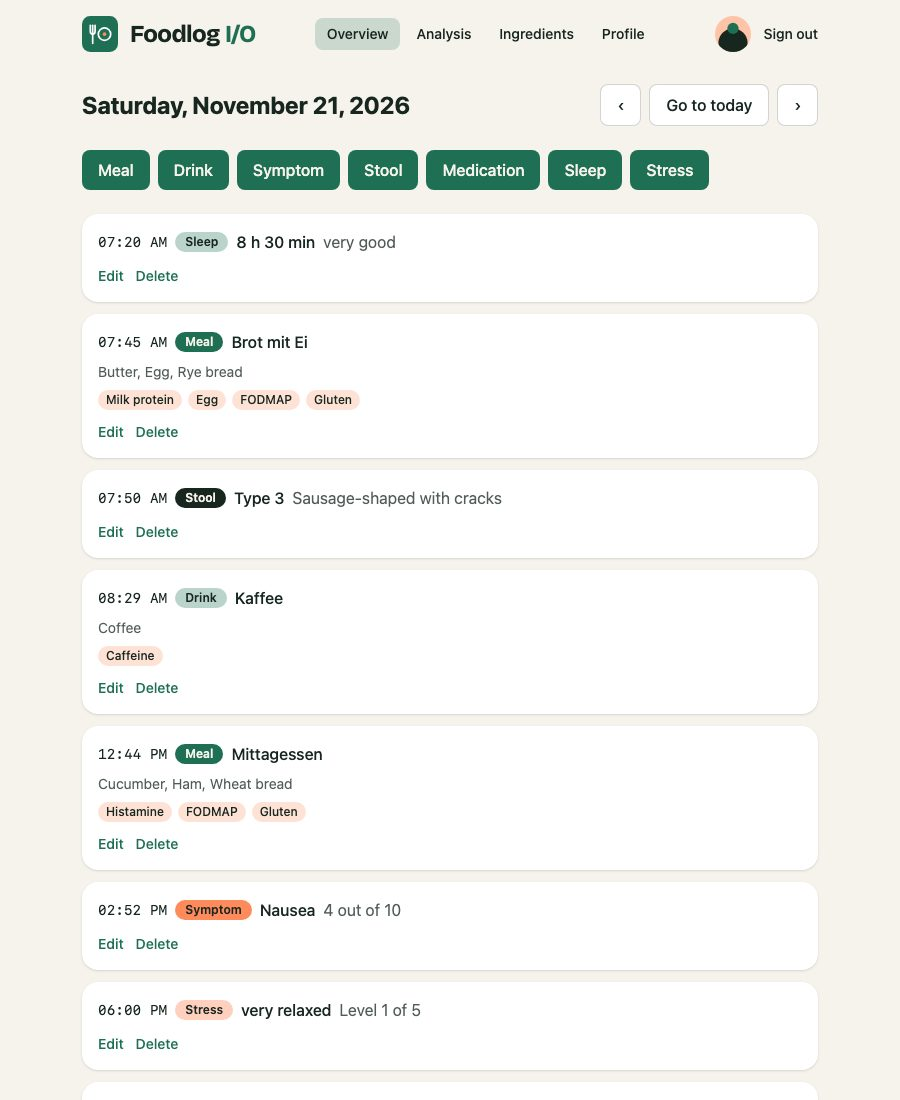
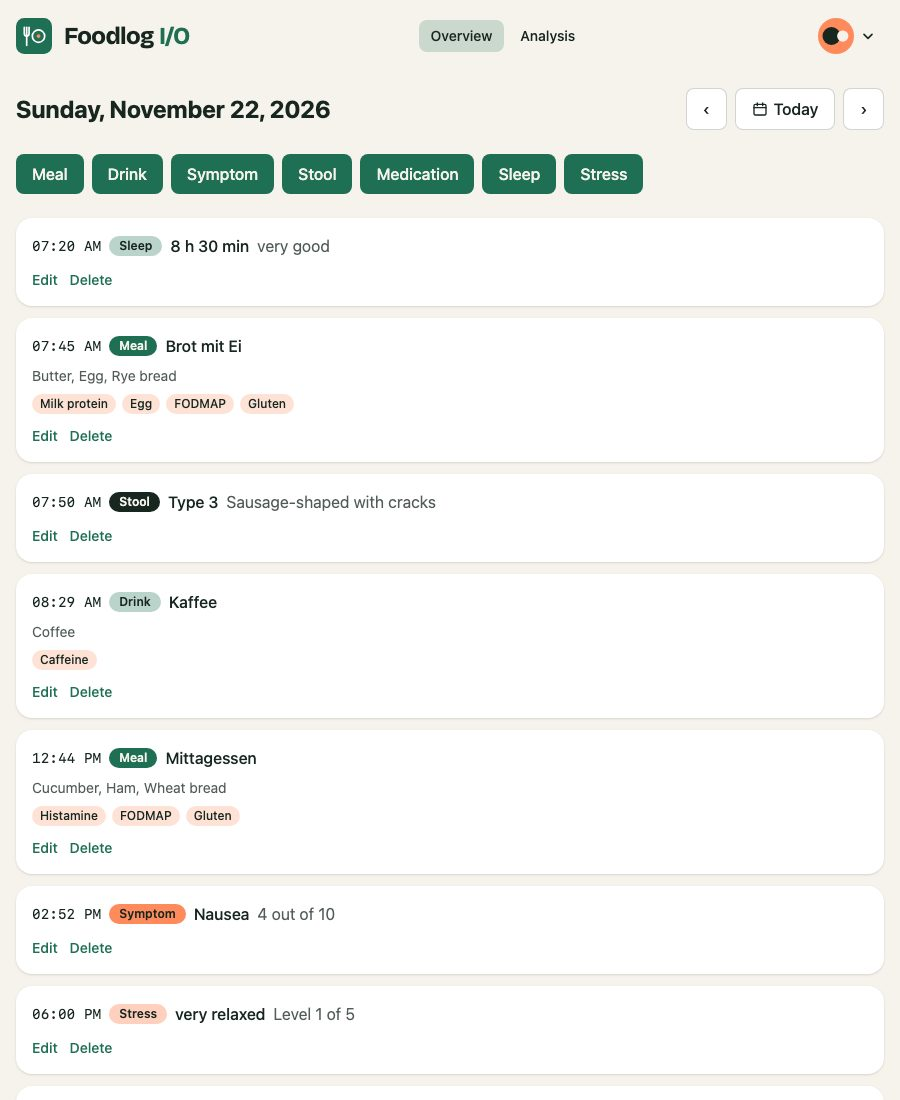
feat(frontend): move profile, admin, ingredients and sign out into an account menu and widen the app

diff --git a/frontend/src/components/Layout.tsx b/frontend/src/components/Layout.tsx
@@ -1,4 +1,4 @@
-import { useEffect, useRef } from 'react';
+import { useEffect, useRef, useState } from 'react';
 import { Link, NavLink, Outlet, useLocation } from 'react-router';
 import { useTranslation } from 'react-i18next';
 import type { Locale } from '@foodlog/shared';
@@ -59,10 +59,91 @@ export function PublicLayout({
   );
 }
 
-export function AppLayout() {
+function AccountMenu() {
   const { t } = useTranslation();
   const { data: me } = useMe();
   const logout = useLogout();
+  const { pathname } = useLocation();
+  const [openFor, setOpenFor] = useState<string | null>(null);
+  const open = openFor === pathname;
+  const setOpen = (value: boolean) => setOpenFor(value ? pathname : null);
+  const root = useRef<HTMLDivElement>(null);
+  const trigger = useRef<HTMLButtonElement>(null);
+
+  useEffect(() => {
+    if (!open) return;
+    const close = (event: MouseEvent | KeyboardEvent) => {
+      if (event instanceof KeyboardEvent) {
+        if (event.key !== 'Escape') return;
+        trigger.current?.focus();
+      } else if (root.current?.contains(event.target as Node)) {
+        return;
+      }
+      setOpenFor(null);
+    };
+    document.addEventListener('mousedown', close);
+    document.addEventListener('keydown', close);
+    return () => {
+      document.removeEventListener('mousedown', close);
+      document.removeEventListener('keydown', close);
+    };
+  }, [open]);
+
+  if (!me) return null;
+  const item = 'block w-full rounded-lg px-3 py-2 text-left text-sm font-medium hover:bg-fg/5';
+  return (
+    <div ref={root} className="relative shrink-0">
+      <button
+        ref={trigger}
+        type="button"
+        aria-label={t('nav.account')}
+        aria-expanded={open}
+        onClick={() => setOpen(!open)}
+        className="flex items-center gap-1.5 rounded-full py-0.5 pl-0.5 pr-2 hover:bg-fg/5"
+      >
+        <Avatar user={me.user} />
+        <svg
+          aria-hidden="true"
+          viewBox="0 0 20 20"
+          fill="none"
+          stroke="currentColor"
+          strokeWidth="2"
+          strokeLinecap="round"
+          strokeLinejoin="round"
+          className={`h-4 w-4 transition-transform ${open ? 'rotate-180' : ''}`}
+        >
+          <path d="m5 8 5 5 5-5" />
+        </svg>
+      </button>
+      {open && (
+        <div className="absolute right-0 top-full z-20 mt-2 w-64 rounded-xl border border-fg/10 bg-raised p-2 shadow-lg">
+          <p className="truncate px-3 py-1 text-sm font-semibold">{me.user.name}</p>
+          <p className="break-all px-3 pb-2 text-xs text-fg/75">{me.user.email}</p>
+          <div className="border-t border-fg/10 pt-2">
+            <Link to="/ingredients" className={item}>
+              {t('nav.ingredients')}
+            </Link>
+            <Link to="/profile" className={item}>
+              {t('nav.profile')}
+            </Link>
+            {me.user.role === 'admin' && (
+              <Link to="/admin" className={item}>
+                {t('nav.admin')}
+              </Link>
+            )}
+            <button type="button" onClick={() => logout.mutate()} className={item}>
+              {t('common.logout')}
+            </button>
+          </div>
+        </div>
+      )}
+    </div>
+  );
+}
+
+export function AppLayout() {
+  const { t } = useTranslation();
+  const { data: me } = useMe();
   const nav = useRef<HTMLElement>(null);
   const { pathname } = useLocation();
   useEffect(() => {
@@ -73,7 +154,7 @@ export function AppLayout() {
   const link = ({ isActive }: { isActive: boolean }) =>
     `shrink-0 whitespace-nowrap rounded-lg px-3 py-1.5 text-sm font-medium ${isActive ? 'bg-accent/20 text-fg' : 'hover:bg-fg/5'}`;
   return (
-    <div className="mx-auto flex min-h-screen w-full max-w-3xl flex-col px-4 pb-8">
+    <div className="mx-auto flex min-h-screen w-full max-w-5xl flex-col px-4 pb-8">
       <header className="flex flex-wrap items-center justify-between gap-3 py-4 print:hidden">
         <Logo />
         <nav
@@ -91,28 +172,8 @@ export function AppLayout() {
               {t('nav.ai')}
             </NavLink>
           )}
-          <NavLink to="/ingredients" className={link}>
-            {t('nav.ingredients')}
-          </NavLink>
-          <NavLink to="/profile" className={link}>
-            {t('nav.profile')}
-          </NavLink>
-          {me?.user.role === 'admin' && (
-            <NavLink to="/admin" className={link}>
-              {t('nav.admin')}
-            </NavLink>
-          )}
         </nav>
-        <div className="flex items-center gap-3">
-          {me && <Avatar user={me.user} />}
-          <button
-            type="button"
-            onClick={() => logout.mutate()}
-            className="text-sm font-medium hover:text-accent"
-          >
-            {t('common.logout')}
-          </button>
-        </div>
+        <AccountMenu />
       </header>
       <main className="flex-1 space-y-6 py-4">
         <Outlet />

diff --git a/e2e/tests/mfa.spec.ts b/e2e/tests/mfa.spec.ts
@@ -1,6 +1,6 @@
 import AxeBuilder from '@axe-core/playwright';
 import { expect, test, type Page } from '@playwright/test';
-import { loginViaApi, PASSWORD, promoteToAdmin, registerVerified } from './helpers.ts';
+import { loginViaApi, PASSWORD, promoteToAdmin, registerVerified, signOut } from './helpers.ts';
 
 test.beforeEach(async ({ page }) => {
   await page.addInitScript(() => localStorage.setItem('foodlog.lang', 'en'));
@@ -51,7 +51,7 @@ test('sets up an authenticator app and needs its code at sign-in', async ({ page
   await card.getByRole('button', { name: 'I saved them' }).click();
   await expect(card.getByText('The authenticator app is active.')).toBeVisible();
 
-  await page.getByRole('button', { name: 'Sign out' }).click();
+  await signOut(page);
   await expect(page.getByRole('heading', { name: 'Sign in' })).toBeVisible();
   await page.getByLabel('Email').fill(email);
   await page.getByLabel('Password').fill(PASSWORD);
@@ -66,7 +66,7 @@ test('sets up an authenticator app and needs its code at sign-in', async ({ page
   await page.getByRole('button', { name: 'Confirm' }).click();
   await expect(page.getByRole('button', { name: 'Meal', exact: true })).toBeVisible();
 
-  await page.getByRole('button', { name: 'Sign out' }).click();
+  await signOut(page);
   await expect(page.getByRole('heading', { name: 'Sign in' })).toBeVisible();
   await page.getByLabel('Email').fill(email);
   await page.getByLabel('Password').fill(PASSWORD);
@@ -94,12 +94,12 @@ test('registers a passkey and signs in with it, with and without the password', 
   await card.getByRole('button', { name: 'I saved them' }).click();
   await expect(card.getByText('Test laptop')).toBeVisible();
 
-  await page.getByRole('button', { name: 'Sign out' }).click();
+  await signOut(page);
   await expect(page.getByRole('heading', { name: 'Sign in' })).toBeVisible();
   await page.getByRole('button', { name: 'Use a passkey instead' }).click();
   await expect(page.getByRole('button', { name: 'Meal', exact: true })).toBeVisible();
 
-  await page.getByRole('button', { name: 'Sign out' }).click();
+  await signOut(page);
   await expect(page.getByRole('heading', { name: 'Sign in' })).toBeVisible();
   await page.getByLabel('Email').fill(email);
   await page.getByLabel('Password').fill(PASSWORD);
@@ -116,6 +116,7 @@ test('sends an administrator without a second factor to the profile with an expl
   await promoteToAdmin(page, email, false);
   await loginViaApi(page, email);
   await page.goto('/');
+  await page.getByRole('button', { name: 'Account menu' }).click();
   await page.getByRole('link', { name: 'Admin' }).click();
 
   await expect(page).toHaveURL(/\/profile$/);

diff --git a/frontend/src/components/Layout.test.tsx b/frontend/src/components/Layout.test.tsx
@@ -1,0 +1,52 @@
+import { screen, waitFor } from '@testing-library/react';
+import userEvent from '@testing-library/user-event';
+import { http, HttpResponse } from 'msw';
+import { describe, expect, it } from 'vitest';
+import { server } from '../test/server.ts';
+import { mockLoggedIn, renderApp } from '../test/render.tsx';
+
+describe('account menu', () => {
+  function setup() {
+    mockLoggedIn();
+    server.use(http.get('/api/entries', () => HttpResponse.json([])));
+    renderApp('/');
+  }
+
+  it('keeps profile and sign out behind the avatar', async () => {
+    setup();
+    const trigger = await screen.findByRole('button', { name: 'Account menu' });
+    expect(trigger).toHaveAttribute('aria-expanded', 'false');
+    expect(screen.queryByRole('link', { name: 'Profile' })).not.toBeInTheDocument();
+    expect(screen.queryByRole('button', { name: 'Sign out' })).not.toBeInTheDocument();
+
+    await userEvent.click(trigger);
+    expect(trigger).toHaveAttribute('aria-expanded', 'true');
+    expect(screen.getByText('anna@example.com')).toBeInTheDocument();
+    expect(screen.getByRole('link', { name: 'Profile' })).toHaveAttribute('href', '/profile');
+    expect(screen.getByRole('button', { name: 'Sign out' })).toBeInTheDocument();
+  });
+
+  it('closes with Escape and returns focus to the avatar', async () => {
+    setup();
+    const trigger = await screen.findByRole('button', { name: 'Account menu' });
+    await userEvent.click(trigger);
+    await userEvent.keyboard('{Escape}');
+    expect(screen.queryByRole('link', { name: 'Profile' })).not.toBeInTheDocument();
+    expect(trigger).toHaveFocus();
+  });
+
+  it('closes on a click outside and after choosing an entry', async () => {
+    setup();
+    const trigger = await screen.findByRole('button', { name: 'Account menu' });
+    await userEvent.click(trigger);
+    await userEvent.click(document.body);
+    expect(screen.queryByRole('link', { name: 'Profile' })).not.toBeInTheDocument();
+
+    await userEvent.click(trigger);
+    await userEvent.click(screen.getByRole('link', { name: 'Profile' }));
+    expect(await screen.findByRole('heading', { name: 'Profile' })).toBeInTheDocument();
+    await waitFor(() =>
+      expect(screen.queryByRole('button', { name: 'Sign out' })).not.toBeInTheDocument(),
+    );
+  });
+});

diff --git a/frontend/src/pages/admin/Admin.test.tsx b/frontend/src/pages/admin/Admin.test.tsx
@@ -77,6 +77,7 @@ describe('admin access', () => {
     mockAdmin();
     server.use(http.get('/api/entries', () => HttpResponse.json([])));
     renderApp('/');
+    await userEvent.click(await screen.findByRole('button', { name: 'Account menu' }));
     expect(await screen.findByRole('link', { name: 'Admin' })).toBeInTheDocument();
   });
 
@@ -85,6 +86,8 @@ describe('admin access', () => {
     server.use(http.get('/api/entries', () => HttpResponse.json([])));
     renderApp('/admin/users');
     expect(await screen.findByRole('button', { name: 'Meal' })).toBeInTheDocument();
+    await userEvent.click(screen.getByRole('button', { name: 'Account menu' }));
+    expect(screen.getByRole('link', { name: 'Profile' })).toBeInTheDocument();
     expect(screen.queryByRole('link', { name: 'Admin' })).not.toBeInTheDocument();
   });
 });

diff --git a/frontend/src/components/ui.tsx b/frontend/src/components/ui.tsx
@@ -69,11 +69,15 @@ export function Button({
   variant = 'primary',
   className = '',
   ...props
-}: ButtonHTMLAttributes<HTMLButtonElement> & { variant?: 'primary' | 'secondary' }) {
-  const styles =
-    variant === 'primary'
-      ? 'bg-brand text-cream hover:bg-brand-hover'
-      : 'border border-fg/20 bg-raised hover:border-accent';
+}: ButtonHTMLAttributes<HTMLButtonElement> & {
+  variant?: 'primary' | 'secondary' | 'danger' | 'dangerOutline';
+}) {
+  const styles = {
+    primary: 'bg-brand text-cream hover:bg-brand-hover',
+    secondary: 'border border-fg/20 bg-raised hover:border-accent',
+    danger: 'bg-danger text-surface hover:brightness-90',
+    dangerOutline: 'border border-danger bg-raised text-danger hover:bg-danger/10',
+  }[variant];
   return (
     <button
       {...props}

diff --git a/e2e/tests/admin.spec.ts b/e2e/tests/admin.spec.ts
@@ -44,10 +44,13 @@ async function openUser(admin: Page, email: string) {
 test('only admins see the admin area', async ({ browser }) => {
   const { page: admin } = await adminPage(browser);
   await admin.goto('/');
+  await admin.getByRole('button', { name: 'Account menu' }).click();
   await expect(admin.getByRole('link', { name: 'Admin' })).toBeVisible();
 
   const { page: regular } = await userPage(browser);
   await regular.goto('/');
+  await regular.getByRole('button', { name: 'Account menu' }).click();
+  await expect(regular.getByRole('link', { name: 'Profile' })).toBeVisible();
   await expect(regular.getByRole('link', { name: 'Admin' })).toHaveCount(0);
   await regular.goto('/admin/users');
   await expect(regular).toHaveURL(/\/$/);

diff --git a/frontend/src/pages/Profile.tsx b/frontend/src/pages/Profile.tsx
@@ -259,7 +259,7 @@ function DeleteCard({ user }: { user: PublicUser }) {
       {!open ? (
         <Button
           type="button"
-          variant="secondary"
+          variant="dangerOutline"
           onClick={() => setOpen(true)}
           className="w-full sm:w-auto"
         >
@@ -287,7 +287,7 @@ function DeleteCard({ user }: { user: PublicUser }) {
             />
           )}
           <ActionRow columns={2}>
-            <Button type="submit" disabled={remove.isPending}>
+            <Button type="submit" variant="danger" disabled={remove.isPending}>
               {t('profile.delete.submit')}
             </Button>
             <Button type="button" variant="secondary" onClick={() => setOpen(false)}>

diff --git a/e2e/tests/auth.spec.ts b/e2e/tests/auth.spec.ts
@@ -6,6 +6,7 @@ import {
   loginViaApi,
   PASSWORD,
   registerVerified,
+  signOut,
   uniqueEmail,
 } from './helpers.ts';
 
@@ -45,7 +46,7 @@ test('registers with an invitation, confirms the email and signs in', async ({ p
   await page.getByRole('button', { name: 'Sign in' }).click();
   await expect(page.getByRole('button', { name: 'Meal', exact: true })).toBeVisible();
 
-  await page.getByRole('button', { name: 'Sign out' }).click();
+  await signOut(page);
   await expect(page.getByRole('heading', { name: 'Sign in' })).toBeVisible();
 });
 

diff --git a/e2e/tests/ingredients.spec.ts b/e2e/tests/ingredients.spec.ts
@@ -50,6 +50,7 @@ test('shows usage and warns before deleting an ingredient used in entries', asyn
   await page.getByRole('button', { name: 'Save', exact: true }).click();
   await expect(page.getByRole('listitem').filter({ hasText: 'Stew' })).toBeVisible();
 
+  await page.getByRole('button', { name: 'Account menu' }).click();
   await page.getByRole('link', { name: 'Ingredients' }).click();
   const mine = page.getByRole('region', { name: 'My ingredients' });
   await expect(mine.getByText('used in 1 entry')).toBeVisible();

diff --git a/frontend/src/index.css b/frontend/src/index.css
@@ -11,6 +11,7 @@
   --text: var(--color-ink);
   --accent: var(--color-brand);
   --highlight: var(--color-coral);
+  --danger: #b42318;
 }
 
 @media (prefers-color-scheme: dark) {
@@ -20,6 +21,7 @@
     --text: var(--color-cream);
     --accent: #4cb38e;
     --highlight: var(--color-coral);
+    --danger: #ff8f85;
   }
 }
 
@@ -35,6 +37,7 @@
   --color-fg: var(--text);
   --color-accent: var(--accent);
   --color-highlight: var(--highlight);
+  --color-danger: var(--danger);
 }
 
 body {

diff --git a/e2e/tests/helpers.ts b/e2e/tests/helpers.ts
@@ -117,3 +117,8 @@ export async function promoteToAdmin(page: Page, email: string, withSecondFactor
   });
   expect(response.ok()).toBe(true);
 }
+
+export async function signOut(page: Page) {
+  await page.getByRole('button', { name: 'Account menu' }).click();
+  await page.getByRole('button', { name: 'Sign out' }).click();
+}
